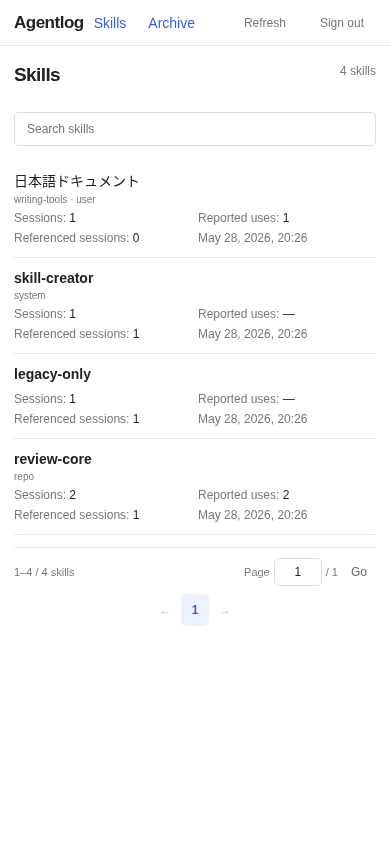
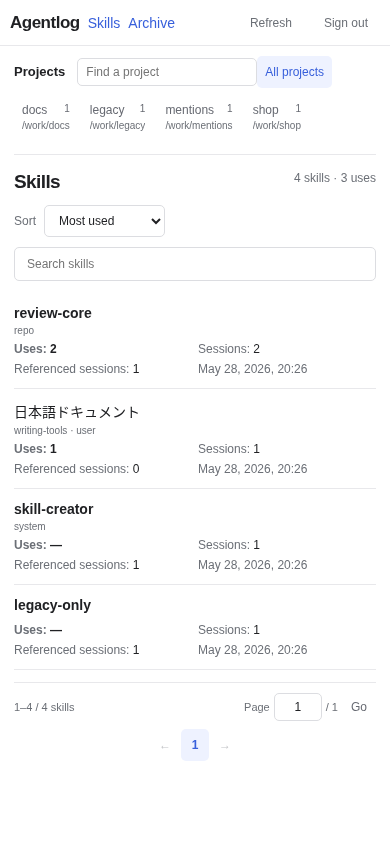
Rank skill usage across sessions with project-scoped totals and navigation

diff --git a/internal/app/static/index.html b/internal/app/static/index.html
@@ -1,6 +1,6 @@
 <!doctype html><html lang="en"><head><meta charset="utf-8"><meta name="viewport" content="width=device-width,initial-scale=1"><title>Agentlog</title><link rel="stylesheet" href="/palette.css"><link rel="stylesheet" href="/style.css"><script src="/pagination.js" defer></script><script src="/usage.js" defer></script><script src="/subagents.js" defer></script><script src="/tool_pairs.js" defer></script><script src="/skills.js" defer></script><script src="/projects.js" defer></script><script src="/model_calls.js" defer></script><script src="/app.js" defer></script></head><body>
 <section id="login" hidden><form id="loginform"><h1>Agentlog</h1><label>Access token<input id="token" type="password" required autocomplete="current-password"></label><button class="primary">Sign in</button><p id="loginerror" role="alert"></p></form></section>
-<div id="workspace" hidden><header class="topbar"><a href="/" class="brand">Agentlog</a><a href="/skills">Skills</a><a href="/archive" class="archive-nav">Archive</a><button id="refresh">Refresh</button><button id="logout">Sign out</button></header><div id="error" role="alert"></div>
+<div id="workspace" hidden><header class="topbar"><a href="/" class="brand">Agentlog</a><a id="skillsnav" href="/skills">Skills</a><a href="/archive" class="archive-nav">Archive</a><button id="refresh">Refresh</button><button id="logout">Sign out</button></header><div id="error" role="alert"></div>
 <main id="listpage"><aside id="projectsidebar" aria-label="Projects"><h2>Projects</h2><input id="projectsearch" type="search" placeholder="Find a project" aria-label="Find a project" maxlength="256"><button id="allprojects" class="project-choice">All projects</button><nav id="projectlist" aria-label="Project selection"></nav><p id="projectstatus" class="muted" role="status"></p><button id="moreprojects" hidden>Load more projects</button></aside><section class="session-results" aria-label="Sessions"><a id="foldersback" href="/" class="back" hidden>Folders</a><div class="pageheading"><h1 id="listtitle">Sessions</h1><span id="listcount" class="muted"></span></div><div class="toolbar"><nav aria-label="Agent"><button data-source="" class="active">All</button><button data-source="codex">Codex</button><button data-source="claude">Claude Code</button><button data-source="copilot">Copilot</button><button data-source="other">Other</button></nav><label class="diagnostics-toggle"><input id="showdiagnostics" type="checkbox" title="Include Codex logs and traces without a conversation ID">Unassigned Codex events</label><input id="search" type="search" placeholder="Search sessions" aria-label="Search sessions" maxlength="512" title="Japanese and English full-text search. Separate words with spaces; the final word also matches prefixes."></div><div id="skillfilter" hidden><span id="skillfilterlabel"></span><button id="clearskillfilter">Clear skill filter</button></div><p id="folderpath" class="folderpath" hidden></p><div class="tablehead"><span id="listcolumn">Session</span><span>Agent</span><span>Last activity</span><span>Reported usage</span><span id="countcolumn">Events</span></div><div id="sessions"></div><nav id="sessionpagination" class="pagination" aria-label="Session pages" tabindex="-1"></nav></section></main>
-<main id="skillpage" hidden><div class="pageheading"><h1>Skills</h1><span id="skillcount" class="muted"></span></div><div class="toolbar"><span id="skillindexstatus" class="muted" role="status"></span><input id="skillsearch" type="search" placeholder="Search skills" aria-label="Search skills" maxlength="512"></div><div class="skill-tablehead"><span>Skill</span><span>Sessions</span><span title="Reported Codex invocations, deduplicated by turn">Reported uses</span><span title="Sessions with a SKILL.md read reference or skill injection; not an invocation count">Referenced sessions</span><span>Last activity</span></div><div id="skillrows"></div><nav id="skillpagination" class="pagination" aria-label="Skill pages" tabindex="-1"></nav></main><main id="archivepage" hidden><a href="/" class="back">Sessions</a><div class="pageheading"><h1>Archive inactive sessions</h1><span id="archivetotal" class="muted"></span></div><p id="archivecutoff" class="muted"></p><section id="archivejob" aria-live="polite"></section><div id="archiveselection" class="toolbar"><button id="archiveall">Select all inactive sessions</button><button id="archiveclear">Clear</button><span id="archiveselected" class="muted"></span><button id="archivecreate" class="primary" disabled>Create ZIP</button></div><div id="archiveitems"></div><nav id="archivepagination" class="pagination" aria-label="Archive pages" tabindex="-1"></nav></main>
+<main id="skillpage" hidden><section class="skill-results" aria-label="Skill usage"><div class="pageheading"><h1 id="skilltitle">Skills</h1><span id="skillcount" class="muted" title="Reported invocations; read references are counted separately"></span></div><div class="toolbar"><span id="skillindexstatus" class="muted" role="status"></span><label class="skill-sort">Sort<select id="skillsort" aria-label="Sort skills"><option value="uses">Most used</option><option value="sessions">Most sessions</option><option value="recent">Recent activity</option></select></label><input id="skillsearch" type="search" placeholder="Search skills" aria-label="Search skills" maxlength="512"></div><div class="skill-tablehead"><span>Skill</span><span title="Reported Codex invocations, deduplicated by turn">Uses</span><span>Sessions</span><span title="Sessions with a SKILL.md read reference or skill injection; not an invocation count">Referenced sessions</span><span>Last activity</span></div><div id="skillrows"></div><nav id="skillpagination" class="pagination" aria-label="Skill pages" tabindex="-1"></nav></section></main><main id="archivepage" hidden><a href="/" class="back">Sessions</a><div class="pageheading"><h1>Archive inactive sessions</h1><span id="archivetotal" class="muted"></span></div><p id="archivecutoff" class="muted"></p><section id="archivejob" aria-live="polite"></section><div id="archiveselection" class="toolbar"><button id="archiveall">Select all inactive sessions</button><button id="archiveclear">Clear</button><span id="archiveselected" class="muted"></span><button id="archivecreate" class="primary" disabled>Create ZIP</button></div><div id="archiveitems"></div><nav id="archivepagination" class="pagination" aria-label="Archive pages" tabindex="-1"></nav></main>
 <main id="detailpage" hidden><a href="/" class="back">Sessions</a><div class="pageheading"><h1 id="sessiontitle">Session</h1><a id="export" class="button">Export JSON</a></div><div id="sessionmeta" class="metadata"></div><section id="sessionusage" aria-label="Session usage" tabindex="-1"></section><div id="sessionskills"></div><div id="relations"></div><div class="logbar"><nav aria-label="Telemetry view" class="view-switch"><button data-view="activity" class="active">Activity</button><button data-view="diagnostics">Diagnostics</button></nav><nav aria-label="Event type"><button data-kind="" class="active">All</button><button data-kind="conversation">Conversation</button><button data-kind="tool">Tools</button><button data-kind="error">Errors</button><button data-kind="metric">Metrics</button><button data-kind="skill">Skills</button></nav><select id="origin" aria-label="Event origin"><option value="">All sources</option><option value="otel">OTEL</option><option value="import">Imported</option></select></div><p id="pageinfo" class="muted"></p><div class="eventlayout"><section id="eventlist" aria-label="Session events"><div id="timeline"></div><nav id="eventpagination" class="pagination" aria-label="Event pages" tabindex="-1"></nav></section><aside id="inspector" aria-labelledby="inspectortitle" tabindex="-1" hidden><div class="inspectorheader"><div class="inspectorheading"><div><span id="inspectortime" class="muted"></span><h2 id="inspectortitle">Event details</h2></div><button id="closeinspector" aria-label="Close event details">Close</button></div><p id="inspectstatus" role="status"></p><div id="subagentactions" hidden><button id="subagentback">Event details</button><a id="subagentfull" class="button">Open session</a><button id="subagentrefresh">Refresh</button></div><nav class="inspectortabs" aria-label="Event details" role="tablist"><button id="detailtab" role="tab" aria-selected="true" aria-controls="inspectdetails" tabindex="0">Details</button><button id="jsontab" role="tab" aria-selected="false" aria-controls="inspectjson" tabindex="-1">JSON</button></nav></div><div class="inspectorbody"><section id="inspectagent" aria-label="Subagent logs" hidden><div id="subagentevents"></div><nav id="subagentpagination" class="pagination" aria-label="Subagent event pages" tabindex="-1"></nav></section><section id="inspectdetails" role="tabpanel" aria-labelledby="detailtab"></section><section id="inspectjson" role="tabpanel" aria-labelledby="jsontab" hidden><div class="jsonactions"><button id="copyjson">Copy JSON</button><span id="copystatus" role="status"></span></div><pre id="eventjson" tabindex="0"></pre></section></div></aside></div></main></div></body></html>

diff --git a/internal/app/static/skills.js b/internal/app/static/skills.js
@@ -1,19 +1,22 @@
 'use strict';
-let skillsQuery='',skillsOffset=0,skillsData=null,skillsPager=null;
-function skillSessionURL(name,plugin){return '/?'+new URLSearchParams({skill:name,plugin:plugin||''})}
+let skillsQuery='',skillsSort='uses',skillsOffset=0,skillsData=null,skillsPager=null;
+function skillSessionURL(name,plugin){const params=new URLSearchParams({skill:name,plugin:plugin||''});if(project!==null)params.set('project',project);return '/?'+params}
 function sessionSkillsHTML(rows){return rows?.length?`<span class="muted">Skills</span>${rows.map(row=>`<button type="button" class="session-skill" data-skill-event="${esc(row.event)}" title="View latest skill event">${esc(row.name)} <small>${row.uses?'×'+row.uses.toLocaleString():'reference'}</small></button>`).join('')}<a class="skill-browse" href="/skills">Browse skills</a>`:''}
 function eventSkillsHTML(rows){return rows?.length?`<div class="event-skills">${rows.map(row=>`<a href="${esc(skillSessionURL(row.name,row.plugin))}">${row.evidence==='reported'?'Skill':'Skill reference'}: ${esc(row.name)}</a>`).join('')}</div>`:''}
 function bindSkillEvents(root){root.querySelectorAll('[data-skill-event]').forEach(button=>button.onclick=()=>{openInspector(button.dataset.skillEvent);inspectorTrigger=button})}
 async function refreshSkills(signal){
- const params=new URLSearchParams({offset:String(skillsOffset)});if(skillsQuery)params.set('q',skillsQuery);
+ const params=new URLSearchParams({offset:String(skillsOffset),sort:skillsSort});if(project!==null)params.set('project',project);if(skillsQuery)params.set('q',skillsQuery);
  const data=await api('/api/skills?'+params,signal);if(signal?.aborted)return;
- skillsData={...data,query:skillsQuery};skillsOffset=data.offset;
- $('#skillcount').textContent=data.total.toLocaleString()+' skills';$('#skillindexstatus').textContent=data.ready?'':'Indexing history';
- $('#skillrows').innerHTML=data.skills.length?data.skills.map(row=>`<a class="skill-row" href="${esc(skillSessionURL(row.name,row.plugin))}"><div><h2>${esc(row.name)}</h2><small>${esc([row.plugin,...row.scopes.filter(Boolean).slice(0,16)].filter(Boolean).join(' · '))}</small></div><span>${row.sessions.toLocaleString()}</span><span>${row.uses?row.uses.toLocaleString():'—'}</span><span>${row.references.toLocaleString()}</span><time>${esc(date(row.last))}</time></a>`).join(''):'<p class="empty">No skills found</p>';
- skillsPager.update({total:data.total,offset:data.offset,size:200});const url=new URLSearchParams();if(skillsQuery)url.set('q',skillsQuery);if(skillsOffset)url.set('offset',skillsOffset);history.replaceState(null,'','/skills'+(url.size?'?'+url:''));
+ skillsData={...data,query:skillsQuery,project};skillsOffset=data.offset;
+ $('#skilltitle').textContent=project===null?'Skills':projectName(project)+' · Skills';
+ $('#skillcount').textContent=data.total.toLocaleString()+(data.total===1?' skill · ':' skills · ')+data.uses.toLocaleString()+(data.uses===1?' use':' uses');$('#skillindexstatus').textContent=data.ready?'':'Indexing history';
+ $('#skillrows').innerHTML=data.skills.length?data.skills.map(row=>`<a class="skill-row" href="${esc(skillSessionURL(row.name,row.plugin))}"><div><h2>${esc(row.name)}</h2><small>${esc([row.plugin,...row.scopes.filter(Boolean).slice(0,16)].filter(Boolean).join(' · '))}</small></div><span class="skill-uses">${row.uses?row.uses.toLocaleString():'—'}</span><span>${row.sessions.toLocaleString()}</span><span>${row.references.toLocaleString()}</span><time>${esc(date(row.last))}</time></a>`).join(''):'<p class="empty">No skills found</p>';
+ skillsPager.update({total:data.total,offset:data.offset,size:200});const url=new URLSearchParams();if(project!==null)url.set('project',project);if(skillsQuery)url.set('q',skillsQuery);if(skillsSort!=='uses')url.set('sort',skillsSort);if(skillsOffset)url.set('offset',skillsOffset);history.replaceState(null,'','/skills'+(url.size?'?'+url:''));
 }
 function setupSkills(){
- skillsQuery=new URL(location.href).searchParams.get('q')||'';skillsOffset=Number(new URL(location.href).searchParams.get('offset'))||0;$('#skillsearch').value=skillsQuery;
+ skillsQuery=new URL(location.href).searchParams.get('q')||'';skillsOffset=Number(new URL(location.href).searchParams.get('offset'))||0;$('#skillsearch').value=skillsQuery;const sort=new URL(location.href).searchParams.get('sort');skillsSort=['uses','sessions','recent'].includes(sort)?sort:'uses';$('#skillsort').value=skillsSort;
+ if(skillsMode)$('#skillpage').prepend($('#projectsidebar'));
+ $('#skillsort').onchange=()=>{skillsSort=$('#skillsort').value;skillsOffset=0;refresh()};
  skillsPager=new Pagination($('#skillpagination'),{noun:'skills',onChange:page=>{skillsOffset=(page-1)*200;refresh('top')}});
  let timer,composing=false;const search=()=>{clearTimeout(timer);timer=setTimeout(()=>{skillsQuery=$('#skillsearch').value;skillsOffset=0;refresh()},250)};
  $('#skillsearch').oninput=event=>{if(!composing&&!event.isComposing)search()};$('#skillsearch').oncompositionstart=()=>{composing=true;clearTimeout(timer)};$('#skillsearch').oncompositionend=()=>{composing=false;search()};

diff --git a/internal/app/static/app.js b/internal/app/static/app.js
@@ -192,13 +192,13 @@ async function refresh(scrollMode){
  activeRequest?.abort();const controller=new AbortController();activeRequest=controller;const serial=++requestSerial;
  $('#refresh').disabled=true;$('#workspace').setAttribute('aria-busy','true');for(const pager of [sessionPager,eventPager,archivePager,skillsPager])pager.setLoading(true);$('#origin').disabled=true;
  try{
-  if(skillsMode){await refreshSkills(controller.signal);if(!controller.signal.aborted&&scrollMode==='top')window.scrollTo({top:0,behavior:'instant'})}
+  if(skillsMode){await Promise.all([refreshSkills(controller.signal),loadProjects(controller.signal)]);if(!controller.signal.aborted&&scrollMode==='top')window.scrollTo({top:0,behavior:'instant'})}
   else if(archiveMode){await refreshArchive(controller.signal);if(!controller.signal.aborted&&scrollMode==='top')window.scrollTo({top:0,behavior:'instant'})}
   else if(selected){const latest=eventOffset===null;const paging=latest?'&position=latest':`&offset=${eventOffset}&limit=${eventLimit}`;const page=await api(`/api/session?id=${encodeURIComponent(selected)}&origin=${encodeURIComponent(origin)}&view=${view}&kind=${kind}${paging}`,controller.signal);if(controller.signal.aborted)return;anchor=captureTimelinePosition();scrollMode??=latest?'bottom':meta?'preserve':'top';closeInspector(false);inspectorCache.clear();meta=page;pageOrigin=origin;events=page.events;eventOffset=page.offset;eventLimit=page.limit;detailState(latest);renderEvents()}
   else{const params=listParameters();params.set('offset',sessionOffset);if(folder!==null)params.set('folder',folder);const [response]=await Promise.all([apiResponse('/api/sessions?'+params,controller.signal),loadProjects(controller.signal)]),data=await response.json();if(controller.signal.aborted)return;sessionOffset=Number(response.headers.get('X-Page-Offset'));sessionData={offset:sessionOffset,source,query,folder,project,diagnostics:$('#showdiagnostics').checked,skillFilter,skillPlugin};listState();renderSessions(data,Number(response.headers.get('X-Total-Count')));if(scrollMode==='top')window.scrollTo({top:0,behavior:'instant'})}
   if(controller.signal.aborted)return;
   $('#login').hidden=true;$('#workspace').hidden=false;$('#listpage').hidden=!!selected||archiveMode||skillsMode;$('#skillpage').hidden=!skillsMode;$('#detailpage').hidden=!selected||archiveMode||skillsMode;$('#archivepage').hidden=!archiveMode;$('#error').textContent='';if(selected)placeTimeline(scrollMode,anchor,serial);
- }catch(e){if(e.name==='AbortError')return;if(selected&&meta){eventOffset=meta.offset;eventLimit=meta.limit;origin=pageOrigin;view=meta.view||'activity';kind=meta.kind||'';syncEventFilters();$('#origin').value=origin}else if(skillsMode&&skillsData){skillsQuery=skillsData.query;skillsOffset=skillsData.offset;$('#skillsearch').value=skillsQuery}else if(archiveMode&&archiveData){archiveOffset=archiveData.offset}else if(sessionData){({offset:sessionOffset,source,query,folder,project,skillFilter,skillPlugin}=sessionData);$('#showdiagnostics').checked=sessionData.diagnostics;$('#search').value=query;document.querySelectorAll('[data-source]').forEach(b=>b.classList.toggle('active',b.dataset.source===source));listState();renderProjects()}$('#error').textContent=e.message;if($('#login').hidden){$('#workspace').hidden=false;$('#listpage').hidden=!!selected||archiveMode||skillsMode;$('#skillpage').hidden=!skillsMode;$('#detailpage').hidden=!selected||archiveMode||skillsMode;$('#archivepage').hidden=!archiveMode}}
+ }catch(e){if(e.name==='AbortError')return;if(selected&&meta){eventOffset=meta.offset;eventLimit=meta.limit;origin=pageOrigin;view=meta.view||'activity';kind=meta.kind||'';syncEventFilters();$('#origin').value=origin}else if(skillsMode&&skillsData){skillsQuery=skillsData.query;skillsOffset=skillsData.offset;skillsSort=skillsData.sort;project=skillsData.project;$('#skillsort').value=skillsSort;renderProjects();$('#skillsearch').value=skillsQuery}else if(archiveMode&&archiveData){archiveOffset=archiveData.offset}else if(sessionData){({offset:sessionOffset,source,query,folder,project,skillFilter,skillPlugin}=sessionData);$('#showdiagnostics').checked=sessionData.diagnostics;$('#search').value=query;document.querySelectorAll('[data-source]').forEach(b=>b.classList.toggle('active',b.dataset.source===source));listState();renderProjects()}$('#error').textContent=e.message;if($('#login').hidden){$('#workspace').hidden=false;$('#listpage').hidden=!!selected||archiveMode||skillsMode;$('#skillpage').hidden=!skillsMode;$('#detailpage').hidden=!selected||archiveMode||skillsMode;$('#archivepage').hidden=!archiveMode}}
  finally{if(serial===requestSerial){$('#refresh').disabled=false;$('#workspace').removeAttribute('aria-busy');for(const pager of [sessionPager,eventPager,archivePager,skillsPager])pager.setLoading(false);$('#origin').disabled=false}}
 }
 $('#refresh').onclick=()=>{projectsKey='';if(selected&&(!meta||meta.offset+meta.limit>=meta.count)){eventOffset=null;eventLimit=200}refresh()};

diff --git a/internal/app/static/style.css b/internal/app/static/style.css
@@ -1301,11 +1301,11 @@ input[type=checkbox] {
     grid-column:1/-1;
   }
   .skill-row>span:nth-child(2):before {
-    content:'Sessions: ';
+    content:'Uses: ';
     color:var(--muted);
   }
   .skill-row>span:nth-child(3):before {
-    content:'Reported uses: ';
+    content:'Sessions: ';
     color:var(--muted);
   }
   .skill-row>span:nth-child(4):before {
@@ -1436,7 +1436,7 @@ html {
 }
 
 /* Project navigation stays available while the session results scroll. */
-#listpage {
+:is(#listpage, #skillpage) {
   display: grid;
   grid-template-columns: 220px minmax(0, 1fr);
   gap: 24px;
@@ -1472,7 +1472,13 @@ html {
 #allprojects { margin-bottom: 4px; }
 #projectstatus:not(:empty) { padding: 8px; }
 #moreprojects { margin-top: 8px; width: 100%; }
-.session-results { min-width: 0; }
+.session-results, .skill-results { min-width: 0; }
+.skill-uses { font-weight: 600; }
+.skill-sort { display: flex; align-items: center; gap: 8px; font-size: 12px; color: var(--muted); }
+.skill-sort select { font: inherit; color: var(--text); background: var(--surface); border: 1px solid var(--control-border); border-radius: 5px; padding: 7px 10px; }
+.skill-results .toolbar { flex-wrap: wrap; gap: 10px; }
+.skill-results #skillindexstatus:empty { display: none; }
+.skill-results .skill-tablehead, .skill-results .skill-row { grid-template-columns: minmax(0, 1fr) 70px 80px 120px 145px; gap: 12px; }
 .session-results .toolbar { flex-wrap: wrap; gap: 8px; }
 .session-results .tablehead, .session-results .session { grid-template-columns: minmax(0, 1fr) 90px 130px 120px 45px; gap: 12px; }
 .logbar { flex-wrap: wrap; gap: 6px 14px; }
@@ -1482,12 +1488,12 @@ html {
 .model-calls button:hover { color: var(--accent); text-decoration: underline; }
 .inspectorbody .model-calls { margin: 0 0 12px; }
 @media (max-width: 1100px) {
-  #listpage { grid-template-columns: 190px minmax(0, 1fr); gap: 16px; }
+  :is(#listpage, #skillpage) { grid-template-columns: 190px minmax(0, 1fr); gap: 16px; }
   .session-results .tablehead, .session-results .session { grid-template-columns: minmax(0, 1fr) 85px 130px; }
   .session-results .usage-row, .session-results .count, .session-results .tablehead span:nth-child(n+4) { display: none; }
 }
 @media (max-width: 720px) {
-  #listpage { display: block; padding-top: 0; }
+  :is(#listpage, #skillpage) { display: block; padding-top: 0; }
   #projectsidebar { top: var(--appbar-height); z-index: 10; max-height: 180px; padding: 10px 0; margin-bottom: 16px; border-right: 0; border-bottom: 1px solid var(--border); background: var(--surface); }
   #projectsidebar h2 { display: inline-block; margin: 0 12px 8px 0; }
   #projectsearch { width: 180px; padding: 6px 8px; }
@@ -1499,4 +1505,12 @@ html {
   .session-results .tablehead { position: static; }
   .session-results .tablehead, .session-results .session { grid-template-columns: minmax(0, 1fr) 75px; }
   .session-results .session time, .session-results .tablehead span:nth-child(3) { display: none; }
+}
+
+@media (min-width: 721px) and (max-width: 1100px) {
+ .skill-results .skill-tablehead, .skill-results .skill-row {grid-template-columns: minmax(0,1fr) 55px 65px 90px;gap:8px;}
+ .skill-results .skill-tablehead span:last-child,.skill-results .skill-row time {display:none;}
+}
+@media (max-width: 720px) {
+ .skill-results .skill-row {grid-template-columns:1fr 1fr;gap:6px;}
 }

diff --git a/internal/app/static/projects.js b/internal/app/static/projects.js
@@ -6,6 +6,7 @@ function projectName(id){
  return folderName(id.startsWith('path:')?id.slice(5):id);
 }
 function renderProjects(){
+ $('#skillsnav').href='/skills'+(project!==null?'?'+new URLSearchParams({project}):'');
  const focused=document.activeElement?.dataset.project;
  const all=$('#allprojects');all.classList.toggle('active',project===null);all.setAttribute('aria-current',project===null?'true':'false');
  const rows=[...projects];
@@ -16,7 +17,7 @@ function renderProjects(){
  $('#moreprojects').hidden=projectsOffset+projects.length>=projectsTotal;
  $('#projectstatus').textContent=!projects.length&&projectsKey?'No projects':'';
 }
-function chooseProject(id){project=id;folder=null;sessionOffset=0;renderProjects();listState();refresh()}
+function chooseProject(id){project=id;renderProjects();if(skillsMode){skillsOffset=0}else{folder=null;sessionOffset=0;listState()}refresh()}
 async function loadProjects(signal,more=false){
  const key=JSON.stringify([$('#showdiagnostics').checked,projectsQuery]);
  if(!more&&projectsKey===key){renderProjects();return}

diff --git a/scripts/skills_browser_test.py b/scripts/skills_browser_test.py
@@ -18,17 +18,23 @@ with tempfile.TemporaryDirectory() as folder:
   with urllib.request.urlopen(req) as response:assert response.status==200
   with sync_playwright() as p:
    browser=p.chromium.launch(executable_path='/usr/bin/chromium',headless=True,args=['--no-sandbox']);page=browser.new_page(viewport={'width':1440,'height':1000});errors=[];page.on('pageerror',lambda e:errors.append(str(e)))
-   page.goto(base+'/skills');page.locator('#token').fill(token);page.locator('#loginform button').click();expect(page.locator('.skill-row')).to_have_count(4)
+   page.goto(base+'/skills');page.locator('#token').fill(token);page.locator('#loginform button').click();expect(page.locator('.skill-row')).to_have_count(4);expect(page.locator('#skillcount')).to_have_text('4 skills · 3 uses');expect(page.locator('.skill-row h2').first).to_have_text('review-core');expect(page.locator('#projectsidebar')).to_be_visible()
    row=page.locator('.skill-row').filter(has=page.get_by_role('heading',name='review-core',exact=True));expect(row.locator('span').nth(0)).to_have_text('2');expect(row.locator('span').nth(1)).to_have_text('2');expect(row.locator('span').nth(2)).to_have_text('1')
-   legacy=page.locator('.skill-row').filter(has=page.get_by_role('heading',name='legacy-only',exact=True));expect(legacy.locator('span').nth(1)).to_have_text('—')
+   legacy=page.locator('.skill-row').filter(has=page.get_by_role('heading',name='legacy-only',exact=True));expect(legacy.locator('span').nth(0)).to_have_text('—')
    if os.getenv('AGENTLOG_SCREENSHOT_DIR'):
     output=pathlib.Path(os.environ['AGENTLOG_SCREENSHOT_DIR']);output.mkdir(parents=True,exist_ok=True);page.screenshot(path=str(output/'ui-skills.png'))
+   page.locator('[data-project="path:/work/shop"]').click();expect(page.locator('.skill-row')).to_have_count(1);expect(page.locator('#skillcount')).to_have_text('1 skill · 2 uses');assert 'project=' in page.url;page.locator('.skill-row').click();expect(page.locator('.session')).to_have_count(1);assert 'project=' in page.url;page.locator('#skillsnav').click();expect(page.locator('#skillcount')).to_have_text('1 skill · 2 uses');page.reload();expect(page.locator('#skillcount')).to_have_text('1 skill · 2 uses')
+   page.locator('#allprojects').click();expect(page.locator('.skill-row')).to_have_count(4);expect(page.locator('#skillcount')).to_have_text('4 skills · 3 uses')
+   page.locator('#skillsort').select_option('recent');expect(page.locator('.skill-row h2').first).to_have_text('日本語ドキュメント');assert 'sort=recent' in page.url;page.reload();expect(page.locator('#skillsort')).to_have_value('recent')
+   page.locator('#skillsort').select_option('uses');expect(page.locator('.skill-row h2').first).to_have_text('review-core')
    page.locator('#skillsearch').fill('ﾄﾞｷｭﾒﾝﾄ');expect(page.locator('.skill-row')).to_have_count(1);expect(page.locator('.skill-row h2')).to_have_text('日本語ドキュメント');page.reload();expect(page.locator('#skillsearch')).to_have_value('ﾄﾞｷｭﾒﾝﾄ');expect(page.locator('.skill-row')).to_have_count(1)
    page.locator('#skillsearch').fill('writing-tools');expect(page.locator('.skill-row')).to_have_count(1);page.locator('#skillsearch').fill('');expect(page.locator('.skill-row')).to_have_count(4)
    page.locator('.skill-row').filter(has=page.get_by_role('heading',name='review-core',exact=True)).click();expect(page.locator('.session')).to_have_count(2);expect(page.locator('#skillfilterlabel')).to_have_text('Skill: review-core');assert '/work/mentions' not in page.locator('#sessions').inner_text()
    page.locator('[data-project="path:/work/shop"]').click();expect(page.locator('.session')).to_have_count(1);page.locator('.session').click();expect(page.locator('#sessionskills')).to_contain_text('review-core');expect(page.locator('#sessionskills')).to_contain_text('×2');page.locator('#sessionskills .session-skill').click();expect(page.locator('#inspectstatus')).to_have_text('');expect(page.locator('#inspectortitle')).to_have_text('review-core');expect(page.locator('#inspectdetails')).to_contain_text('implicit');page.locator('#jsontab').click();expect(page.locator('#eventjson')).to_contain_text('codex.skill_invocation');page.keyboard.press('Escape');page.locator('button[data-kind="skill"]').click();expect(page.locator('#timeline .event')).to_have_count(3)
    page.locator('#origin').select_option('import');expect(page.locator('#sessionskills')).to_be_empty();page.locator('#origin').select_option('otel');expect(page.locator('#sessionskills')).to_contain_text('×2')
    page.locator('#detailpage>.back').click();expect(page.locator('#skillfilterlabel')).to_have_text('Skill: review-core');page.locator('#clearskillfilter').click();expect(page.locator('#skillfilter')).to_be_hidden();assert 'skill=' not in page.url
+   page.goto(base+'/skills?project=path%3A%2Fwork%2Fshop');expect(page.locator('.skill-row')).to_have_count(1);saved_url=page.url
+   page.route('**/api/skills?*sort=recent*',lambda route:route.fulfill(status=500,body='synthetic failure'));page.locator('#skillsort').select_option('recent');expect(page.locator('#error')).to_contain_text('HTTP 500');expect(page.locator('#skillsort')).to_have_value('uses');expect(page.locator('[data-project="path:/work/shop"]')).to_have_attribute('aria-current','true');assert page.url==saved_url;page.unroute('**/api/skills?*sort=recent*')
    page.set_viewport_size({'width':390,'height':844});page.goto(base+'/skills');expect(page.locator('.skill-row')).to_have_count(4);assert page.evaluate('document.documentElement.scrollWidth<=innerWidth')
    if os.getenv('AGENTLOG_SCREENSHOT_DIR'):page.screenshot(path=str(output/'ui-skills-mobile.png'))
    assert not errors,errors;browser.close()

diff --git a/internal/app/skills.go b/internal/app/skills.go
@@ -30,15 +30,23 @@ type SkillSummary struct {
 }
 
 const skillReported = `CASE WHEN k.evidence='reported' AND (k.origin='otel' OR NOT EXISTS(SELECT 1 FROM skill_events native WHERE native.name=k.name AND native.plugin=k.plugin AND native.session=k.session AND native.evidence='reported' AND native.origin='otel')) THEN k.group_key END`
-const skillRollup = `SELECT k.name,k.plugin,COUNT(DISTINCT k.session),COUNT(DISTINCT ` + skillReported + `),COUNT(DISTINCT CASE WHEN k.evidence='reference' THEN k.session END),MAX(k.time),json_group_array(DISTINCT k.scope)`
+const skillRollup = `SELECT k.name,k.plugin,COUNT(DISTINCT k.session) AS sessions,COUNT(DISTINCT ` + skillReported + `) AS uses,COUNT(DISTINCT CASE WHEN k.evidence='reference' THEN k.session END) AS reference_sessions,MAX(k.time) AS last,json_group_array(DISTINCT k.scope) AS scopes`
 
 func scanSkills(rows *sql.Rows) ([]SkillSummary, error) {
+	return scanSkillRows(rows, nil)
+}
+
+func scanSkillRows(rows *sql.Rows, totalUses *int) ([]SkillSummary, error) {
 	defer rows.Close()
 	out := []SkillSummary{}
 	for rows.Next() {
 		var s SkillSummary
 		var scopes string
-		if err := rows.Scan(&s.Name, &s.Plugin, &s.Sessions, &s.Uses, &s.References, &s.Last, &scopes); err != nil {
+		args := []any{&s.Name, &s.Plugin, &s.Sessions, &s.Uses, &s.References, &s.Last, &scopes}
+		if totalUses != nil {
+			args = append(args, totalUses)
+		}
+		if err := rows.Scan(args...); err != nil {
 			return nil, err
 		}
 		if err := json.Unmarshal([]byte(scopes), &s.Scopes); err != nil {
@@ -49,6 +57,19 @@ func scanSkills(rows *sql.Rows) ([]SkillSummary, error) {
 	return out, rows.Err()
 }
 func (a *App) skills(w http.ResponseWriter, r *http.Request) {
+	order := "uses DESC,sessions DESC,last DESC,name,plugin"
+	sort := r.URL.Query().Get("sort")
+	switch sort {
+	case "", "uses":
+		sort = "uses"
+	case "sessions":
+		order = "sessions DESC,uses DESC,last DESC,name,plugin"
+	case "recent":
+		order = "last DESC,name,plugin"
+	default:
+		http.Error(w, "Invalid skill sort", 400)
+		return
+	}
 	tx, err := a.readers.BeginTx(r.Context(), &sql.TxOptions{ReadOnly: true})
 	if err != nil {
 		databaseError(w, r, err)
@@ -57,13 +78,22 @@ func (a *App) skills(w http.ResponseWriter, r *http.Request) {
 	defer tx.Rollback()
 	from := ` FROM skill_events k JOIN session_catalog s ON s.session=k.session WHERE NOT EXISTS(SELECT 1 FROM archive_locks l WHERE l.session=k.session)`
 	args := []any{}
+	if r.URL.Query().Has("project") {
+		from += " AND s.project_key=?"
+		args = append(args, r.URL.Query().Get("project"))
+	}
 	if q := strings.TrimSpace(r.URL.Query().Get("q")); q != "" {
 		if len(q) > 512 {
 			http.Error(w, "Search is too long", 400)
 			return
 		}
-		from += ` AND EXISTS(SELECT 1 FROM skill_events matched WHERE matched.name=k.name AND matched.plugin=k.plugin AND instr(matched.search,?)>0)`
+		from += ` AND (k.name,k.plugin) IN(SELECT matched.name,matched.plugin FROM skill_events matched JOIN session_catalog matched_session ON matched_session.session=matched.session WHERE NOT EXISTS(SELECT 1 FROM archive_locks l WHERE l.session=matched.session) AND instr(matched.search,?)>0`
 		args = append(args, skillSearch(q))
+		if r.URL.Query().Has("project") {
+			from += " AND matched_session.project_key=?"
+			args = append(args, r.URL.Query().Get("project"))
+		}
+		from += ")"
 	}
 	grouped := from + " GROUP BY k.name,k.plugin"
 	var total int
@@ -73,10 +103,13 @@ func (a *App) skills(w http.ResponseWriter, r *http.Request) {
 	}
 	off := pageOffset(offset(r), total, 200)
 	params := append(append([]any{}, args...), off)
-	rows, err := tx.QueryContext(r.Context(), skillRollup+grouped+" ORDER BY MAX(k.time) DESC,k.name,k.plugin LIMIT 200 OFFSET ?", params...)
+	// Window aggregation covers every matching skill before LIMIT, so the
+	// displayed total remains correct on later pages and under project/search filters.
+	rows, err := tx.QueryContext(r.Context(), "WITH totals AS ("+skillRollup+grouped+") SELECT name,plugin,sessions,uses,reference_sessions,last,scopes,SUM(uses) OVER() FROM totals ORDER BY "+order+" LIMIT 200 OFFSET ?", params...)
 	var out []SkillSummary
+	var uses int
 	if err == nil {
-		out, err = scanSkills(rows)
+		out, err = scanSkillRows(rows, &uses)
 	}
 	var ready bool
 	if err == nil {
@@ -89,7 +122,7 @@ func (a *App) skills(w http.ResponseWriter, r *http.Request) {
 		databaseError(w, r, err)
 		return
 	}
-	write(w, map[string]any{"skills": out, "total": total, "offset": off, "ready": ready})
+	write(w, map[string]any{"skills": out, "total": total, "uses": uses, "sort": sort, "offset": off, "ready": ready})
 }
 func sessionSkills(ctx context.Context, tx *sql.Tx, session, origin string) ([]SkillSummary, error) {
 	from := ` FROM skill_events k WHERE k.session=?`

diff --git a/internal/app/skill_catalog_test.go b/internal/app/skill_catalog_test.go
@@ -1,0 +1,102 @@
+package app
+
+import (
+	"fmt"
+	"net/http/httptest"
+	"net/url"
+	"testing"
+)
+
+type skillCatalogPage struct {
+	Skills []SkillSummary `json:"skills"`
+	Total  int            `json:"total"`
+	Uses   int            `json:"uses"`
+	Offset int            `json:"offset"`
+	Sort   string         `json:"sort"`
+}
+
+func TestSkillUsageCatalogProjectScopeAndOrdering(t *testing.T) {
+	a := setup(t)
+	for _, session := range []string{"a1", "a2", "a3", "b1", "b2", "b3"} {
+		project := "A"
+		if session[0] == 'b' {
+			project = "B"
+		}
+		save(t, a, recorded(t, "prompt-"+session, "otel", "codex", session, "codex.user_prompt", map[string]any{"prompt": "question", "service.namespace": project}))
+	}
+	rows := []Event{
+		skillReport(t, "review-a1-1", "otel", "a1", "review", "one", ""), skillReport(t, "retry", "otel", "a1", "review", "one", ""), skillReport(t, "review-a1-2", "otel", "a1", "review", "two", ""),
+		skillReport(t, "review-a2", "otel", "a2", "review", "one", ""), skillReport(t, "review-b1", "otel", "b1", "review", "one", ""),
+		skillReport(t, "build-1", "otel", "a1", "build", "one", ""), skillReport(t, "build-2", "otel", "a1", "build", "two", ""), skillReport(t, "build-3", "otel", "a1", "build", "three", ""),
+		recorded(t, "history-a", "import", "codex", "a3", "gen_ai.tool.start", map[string]any{"tool_name": "Read", "arguments": `{"file_path":"/only-A/skills/history/SKILL.md"}`}),
+		recorded(t, "history-b", "import", "codex", "b3", "gen_ai.tool.start", map[string]any{"tool_name": "Read", "arguments": `{"file_path":"/only-B/skills/history/SKILL.md"}`}),
+	}
+	newest := skillReport(t, "newest", "otel", "b2", "newest", "one", "")
+	newest.Time = "2026-11-15T00:00:00.000000000Z"
+	rows = append(rows, newest)
+	save(t, a, rows...)
+	var p skillCatalogPage
+	getJSON(t, a, "/api/skills", &p)
+	if p.Total != 4 || p.Uses != 8 || p.Sort != "uses" || p.Skills[0].Name != "review" || p.Skills[0].Uses != 4 || p.Skills[0].Sessions != 3 {
+		t.Fatal(p)
+	}
+	getJSON(t, a, "/api/skills?project=name:A", &p)
+	if p.Total != 3 || p.Uses != 6 || p.Skills[0].Name != "review" || p.Skills[0].Uses != 3 || p.Skills[0].Sessions != 2 {
+		t.Fatal(p)
+	}
+	getJSON(t, a, "/api/skills?sort=recent", &p)
+	if p.Sort != "recent" || p.Skills[0].Name != "newest" || p.Uses != 8 {
+		t.Fatal(p)
+	}
+	getJSON(t, a, "/api/skills?sort=sessions", &p)
+	if p.Skills[0].Name != "review" || p.Skills[1].Name != "history" || p.Uses != 8 {
+		t.Fatal(p)
+	}
+	getJSON(t, a, "/api/skills?q="+url.QueryEscape("ＲＥＶＩＥＷ"), &p)
+	if p.Total != 1 || p.Uses != 4 {
+		t.Fatal(p)
+	}
+	getJSON(t, a, "/api/skills?project=name:A&q=only-B", &p)
+	if p.Total != 0 || p.Uses != 0 || len(p.Skills) != 0 {
+		t.Fatal("path match from another project", p)
+	}
+	getJSON(t, a, "/api/skills?project=name:B&q=only-B", &p)
+	if p.Total != 1 || p.Uses != 0 || p.Skills[0].References != 1 {
+		t.Fatal(p)
+	}
+	// Archive-locked sessions contribute neither reported usage nor search metadata.
+	if _, err := a.DB.Exec("INSERT INTO archives(id,status,created_at,cutoff) VALUES('skill-test','preparing','',''); INSERT INTO archive_locks VALUES('codex:b3','skill-test')"); err != nil {
+		t.Fatal(err)
+	}
+	getJSON(t, a, "/api/skills?q=only-B", &p)
+	if p.Total != 0 || p.Uses != 0 {
+		t.Fatal("archived path matched", p)
+	}
+	r := httptest.NewRequest("GET", "/api/skills?sort=invalid", nil)
+	r.Header.Set("Authorization", "Bearer "+token)
+	w := httptest.NewRecorder()
+	a.Handler().ServeHTTP(w, r)
+	if w.Code != 400 {
+		t.Fatal(w.Code)
+	}
+}
+
+func TestSkillUsageTotalCoversAllPages(t *testing.T) {
+	a := setup(t)
+	rows := []Event{}
+	for i := 0; i < 205; i++ {
+		rows = append(rows, skillReport(t, fmt.Sprint(i), "otel", "session", fmt.Sprintf("skill-%03d", i), "one", ""))
+	}
+	save(t, a, rows...)
+	for _, offset := range []int{0, 200, 9999} {
+		var p skillCatalogPage
+		getJSON(t, a, fmt.Sprintf("/api/skills?offset=%d", offset), &p)
+		want := 200
+		if offset > 0 {
+			want = 5
+		}
+		if p.Total != 205 || p.Uses != 205 || len(p.Skills) != want {
+			t.Fatal(offset, p)
+		}
+	}
+}

diff --git a/scripts/database_upgrade_test.py b/scripts/database_upgrade_test.py
@@ -78,7 +78,8 @@ def presentation_normalized(value):
         return [presentation_normalized(item) for item in value]
     if isinstance(value, dict):
         return {key: presentation_normalized(item) for key, item in value.items()
-                if not (key in ('diagnostic', 'turn') and 'kind' in value and 'blocks' in value)}
+                if not (key in ('diagnostic', 'turn') and 'kind' in value and 'blocks' in value)
+                and not (key in ('uses', 'sort') and 'skills' in value and 'ready' in value)}
     return value
 
 

diff --git a/README.md b/README.md
@@ -11,7 +11,7 @@ A personal OpenTelemetry collector and session viewer for Codex CLI, Claude Code
 - Collect logs, traces and metrics over OTLP/HTTP (JSON or Protobuf), or import and watch saved CLI sessions.
 - Search Japanese and English with built-in SQLite FTS5 and an embedded Japanese dictionary ([search settings](docs/search.md)).
 - Keep projects visible beside session search; timelines open at the latest activity. Inspect [tool inputs/outputs](docs/tool-events.md) and [subagent logs](docs/subagents.md) in the side panel.
-- Find Codex [skill use](docs/skills.md) by name, plugin or file reference, then browse matching sessions.
+- Rank Codex [skills](docs/skills.md) by usage across sessions or per project; search names, plugins and references, then open matching sessions.
 - Compare reported tokens, cache usage, USD cost, request time and errors per session ([accounting rules](docs/usage.md)).
 - Read conversations and tool [activity](docs/activity.md) first; inspect internal telemetry in Diagnostics.
 - Combine imported and OTEL events with shared IDs into one card while keeping both originals.

diff --git a/docs/skills.md b/docs/skills.md
@@ -1,6 +1,8 @@
 # Codex skills
 
-Open **Skills** to search names, plugins, scopes and referenced paths. Click a row to browse matching sessions by folder. Session headers show skill chips; clicking one opens the latest matching event in the inspector. The timeline's **Skills** filter includes skill reports and indexed references on the current page.
+Open **Skills** for usage totals across sessions, ordered by **Most used**. The project sidebar switches between all projects and one project; search names, plugins, scopes or referenced paths within that selection. **Most sessions** and **Recent activity** offer alternate orders. The header shows the matching skill count and total reported uses across all pages.
+
+Click a row to open matching sessions in the selected project. Session headers retain their skill chips and event inspector. The timeline's **Skills** filter includes reported uses and indexed references, with filtering before pagination.
 
 ![Skill usage and references](ui-skills.png)
 
